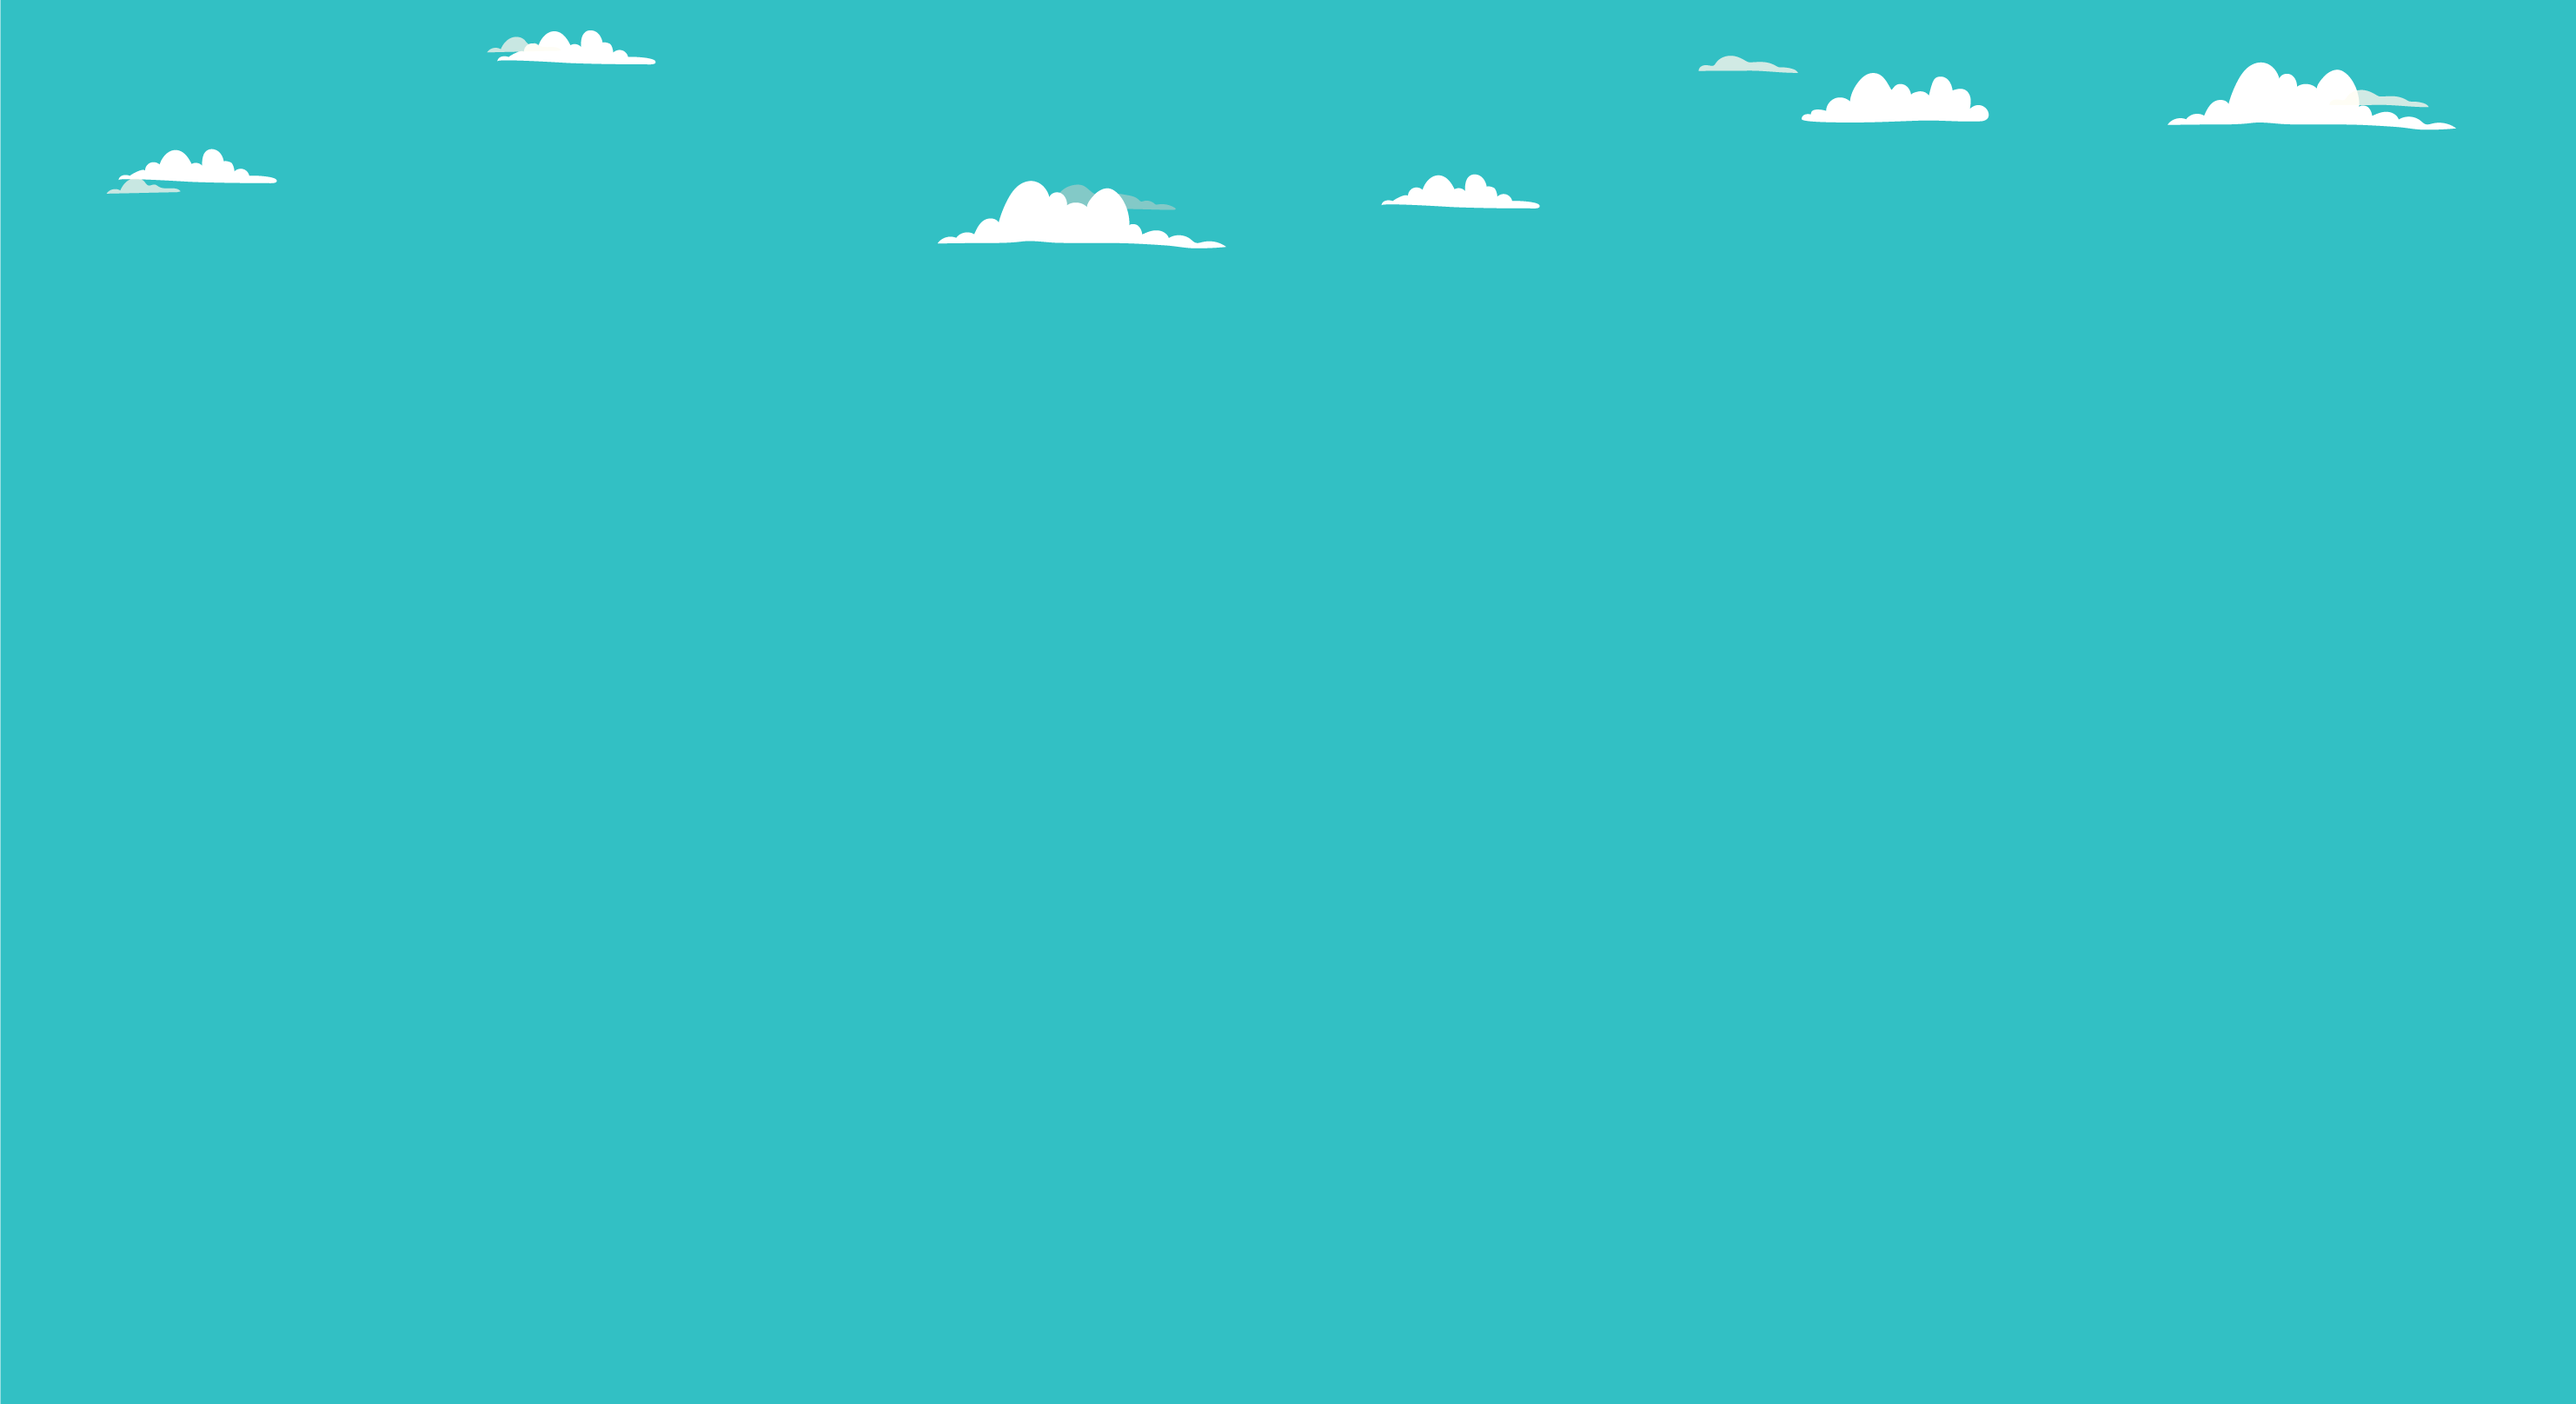
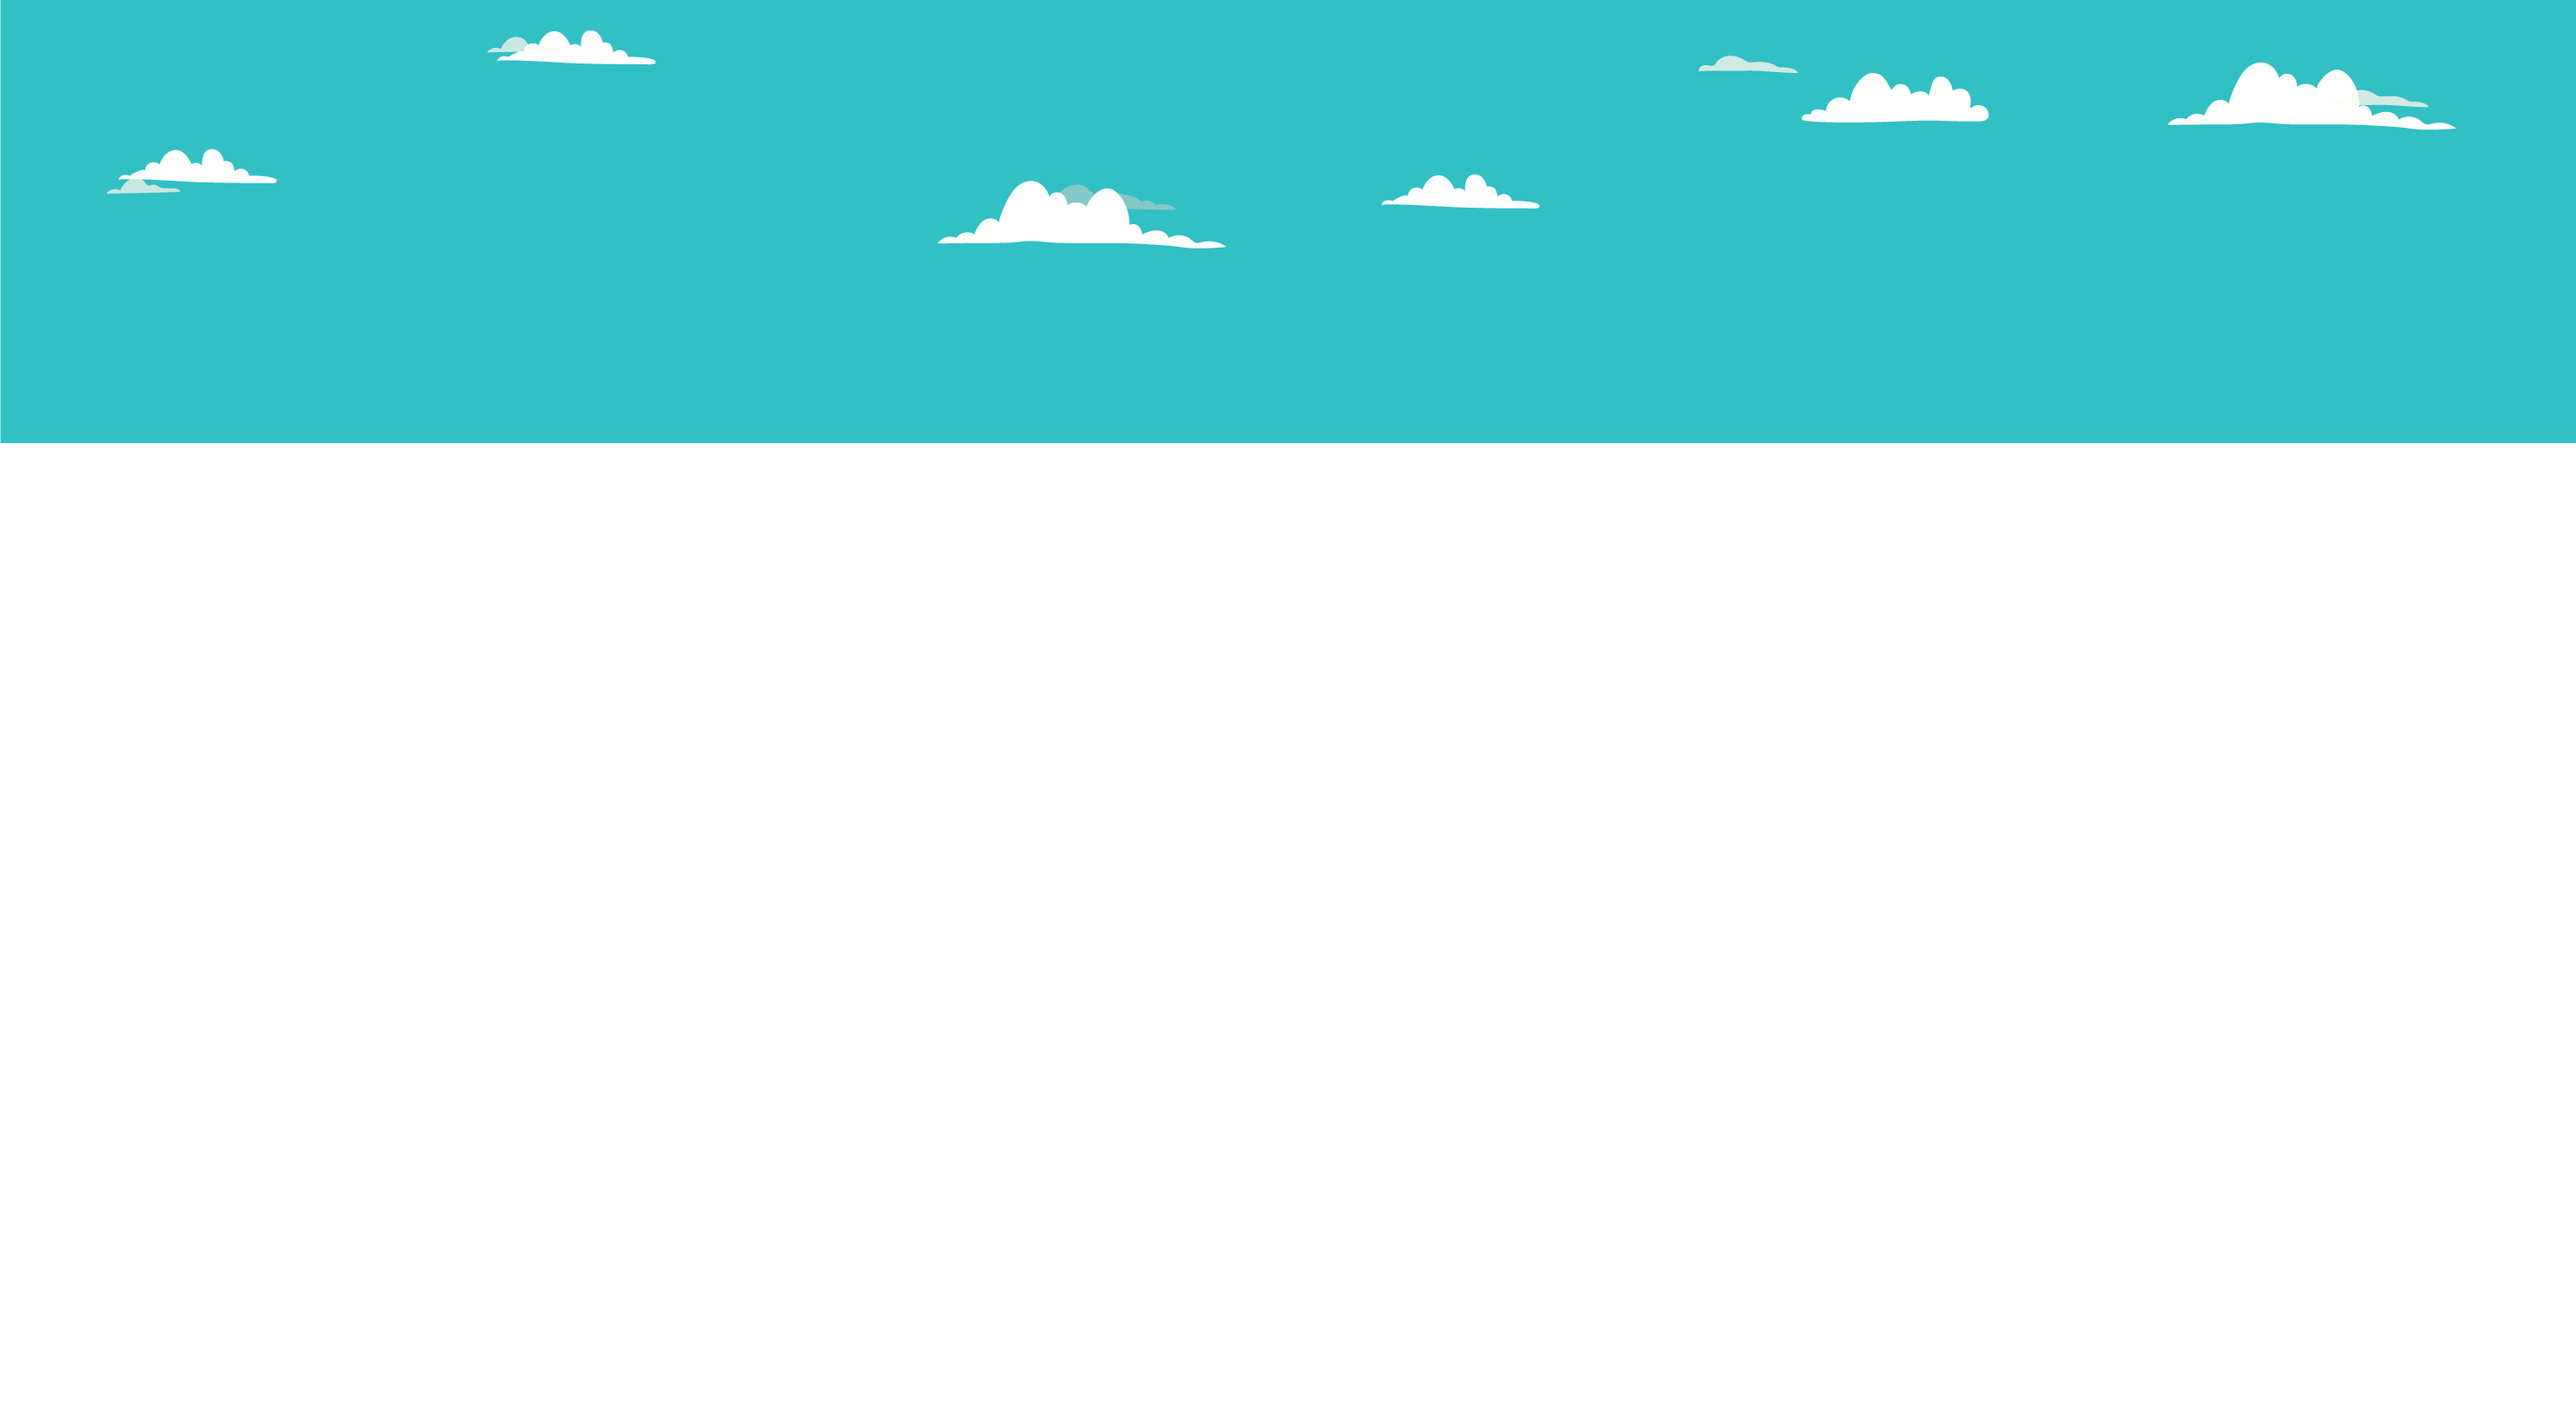
Buttons are now working + a lot of small fixes

diff --git a/index.html b/index.html
@@ -3,17 +3,20 @@
     <head>
         <meta charset="utf-8">
         <link rel="stylesheet" href="assets/stylesheets/main.css">
-        <title> SE02_Projekt </title>
+        <link rel="icon" href="assets/icons/LogoIcon.png">
+        <title> Aservio </title>
         <script src="scripts/parallax.js"></script>
     </head>
     <body>
+        <script src="https://cdn.jsdelivr.net/npm/marked/marked.min.js"></script>
+
         <header class="wrapper" id="navigation">
-            <a href="pages/changelog.html" class="button-nav">Changelog</a>
-            <a href="pages/about.html" class="button-nav">About</a>
-            <a href="pages/download.html" class="button-nav">Downloads</a>
-            <p class="box-image" style="margin-left: 10%;">LOGO</p>
+            <a href="#about-center" class="button-nav">About</a>
+            <a href="#changelog-center" class="button-nav">Changelog</a>
+            <a href="#downloads-center" class="button-nav">Downloads</a>
+            <a href="#parallax-container" class="button-nav" style="float:left;">Top</a>
         </header>
-        
+
         <div id="parallax-container">
             <div style="background-image: url(assets/images/parallax/layer01.png)"></div>
             <div style="background-image: url(assets/images/parallax/layer02.png)"></div>
@@ -22,48 +25,29 @@
             <div style="background-image: url(assets/images/parallax/layer05.png)"></div>
             <div style="background-image: url(assets/images/parallax/layer06.png)"></div>
         </div>
-        
-        <!--<section class="wrapper">
-        <!-- Titel og parallax scrolling baggrund. -->
-        <!--<div class="parallax" style="margin-top: -125px; height: 1000px; background-image: url(assets/images/ws_Spring_Plants_1920x1080.jpg);">
-            <div class="box-center" style="top: 40%;">
-                <p id="introduction">- Asservio -</p>
-                <p id="undertext">For those in need</p>
-            </div>
-        </div>-->
-        <!--
-        <section class="wrapper" id="content_01" style="float:left;">
-            <div class="three-article">
-                <img src="assets/icons/computer.png" alt="Computer icon" class="box-image">
-                <h3 class="box-text">Beskrivelse af én funktion. Der kan ske samtlige spændende
-                    ting her inde i en sådan beskrivelse.</h3>
-            </div>
-            <div class="three-article">
-                <img src="assets/icons/graph.png" alt="Graph icon" class="box-image">
-                <h3 class="box-text">Beskrivelse af én funktion. Der kan ske samtlige spændende
-                    ting her inde i en sådan beskrivelse.</h3>
-            </div>
-            <div class="three-article">
-                <img src="assets/icons/delivery.png" alt="Delivery icon" class="box-image">
-                <h3 class="box-text">Beskrivelse af én funktion. Der kan ske samtlige spændende
-                    ting her inde i en sådan beskrivelse.</h3>
-            </div>
-        </section>
-        <div class="clearfix"></div>
-        <div class="parallax" style="height: 300px; background-image: url(assets/images/ws_Spring_Plants_1920x1080.jpg)"></div>
-        <section class="wrapper" id="content_02" style="float: left;">
-            <div class="two-article">
-                <img src="assets/icons/stadistics.png" alt="Statistics icon" class="box-image" style="width: 250px; height: 250px; margin-bottom: 0;">
-            </div>
-            <div class="two-article" style="margin-left: 0px;">
-                <h3 class="box-text">Beskrivelse af én funktion. Der kan ske samtlige spændende
-                    ting her inde i en sådan beskrivelse.</h3>
-            </div>
-        </section>
-        <div class="clearfix"></div>
-        <div class="parallax" style="margin-bottom: -75px; background-image: url(assets/images/ws_Spring_Plants_1920x1080.jpg)"></div>
-    </section>-->
+
+        <div class="box-center" id="introduction" style="border: 6px dotted rgba(204, 51, 51, 0.8); margin-top: -500px; height: 300px;"></div>
+        <script>
+            document.getElementById('introduction').innerHTML =
+                    marked("## This is in markdown");
+        </script>
+
+        <div class="box-center" id="downloads" style="border: 6px dotted rgba(204, 51, 51, 0.8); margin-top: 400px; height: 300px;">
+            <p>Downloads</p>
+            <div id="downloads-center" style="margin-top: -400px;"></div>
+        </div>
+
+        <div class="box-center" id="changelog" style="border: 6px dotted rgba(204, 51, 51, 0.8); margin-top: 400px; height: 300px;">
+            <p>Changelog</p>
+            <div id="changelog-center" style="margin-top: -400px;"></div>
+        </div>
+
+        <div class="box-center" id="about" style="border: 6px dotted rgba(204, 51, 51, 0.8); margin-top: 400px; height: 300px;">
+            <p>About</p>
+            <div id="about-center" style="margin-top: -400px;"></div>
+        </div>
+
         <footer id="foot">
-            <p class="box-center" style="padding-top: 15px;">&copy;SE02 SDU, Odense Serviox</p>
+            <p class="box-center" style="padding-top: 15px;">&copy;SE02 SDU, Odense Aservio</p>
         </footer>
 </html>

diff --git a/assets/stylesheets/main.css b/assets/stylesheets/main.css
@@ -1,7 +1,7 @@
 /* Hard reset to allow for more 
     compatiblity across platforms.
 */
-
+/*
 html, body, div, span, applet, object, iframe,
 h1, h2, h3, h4, h5, h6, p, blockquote, pre,
 a, abbr, acronym, address, big, cite, code,
@@ -24,10 +24,14 @@ time, mark, audio, video {
 }
 
 /* HTML5 display-role reset for older browsers */
+/*
 article, aside, details, figcaption, figure, 
 footer, header, hgroup, menu, nav, section {
     display: block;
 }
+
+
+
 
 body {
     line-height: 1;
@@ -51,12 +55,18 @@ table {
     border-collapse: collapse;
     border-spacing: 0;
 }
-
+*/
 /*----------CSS-------------*/
+
+html {
+    scroll-behavior: smooth;
+}
 
 body {
     font-family: "Verdana";
     font-size: 18px;
+    color: white;
+    background-color: #006666;
 }
 
 .wrapper {
@@ -98,28 +108,11 @@ body {
 
 .box-center {
     position: relative;
-    width:20%;
+    width:60%;
     display: block;
     margin-left: auto;
     margin-right: auto;
-    text-align: center;
-}
-
-.parallax {
-    background-repeat: no-repeat;
-    position: relative;
-
-    /* Set a specific height */
-    height: 500px; 
-
-    /* Create the parallax scrolling effect */
-    background-attachment: fixed;
-    background-position: center;
-    background-repeat: no-repeat;
-}
-
-.clearfix {
-    clear: both;
+    text-align: left;
 }
 
 .button-nav {
@@ -139,7 +132,7 @@ body {
 .button-nav:hover {
     background-color: rgba(255, 255, 255, 0.3);
     color: darkslategray;
-    border: 2px solid #cc4700;
+    border: 2px solid #cc3333;
 }
 
 #parallax-container {
@@ -166,54 +159,24 @@ body {
 }
 
 #navigation {
-    /*position: fixed;
-    top: 0;*/
+    position: fixed;
+    top: 0;
     height: 125px;
     z-index: 1;
 }
 
 #introduction {
-    position:relative;
-    background-color: rgba(255, 255, 255, 0.8);
-    color: #cc4700;
-    font-size: 28px;
-    font-weight: bold;
-    border-radius: 5px;
-    padding: 10px;
+    
 }
 
-#undertext {
-    position: relative;
-    width:fit-content;
-    display: block;
-    margin-left: auto;
-    margin-right: auto;
-
-    color: white;
-    top: 20px;
-}
-
-#content_01 {
-    margin: 0%;
-    margin-top: -250px;
-    background: linear-gradient(to right, #71c4be 0%,#0d9196 50%,#71c4be 100%);
-
-}
-
-#content_02 {
-    margin: 0%;
-    background: -webkit-linear-gradient(left, rgba(226,180,142,1) 0%,rgba(229,138,59,1) 50%,rgba(226,180,142,1) 100%);
-}
-
-#content_03 {
-    margin: 0%;
-    background-color: aquamarine;
+#downloads {
+    
 }
 
 #foot {
     position: relative;
     height: 75px;
-    background: linear-gradient(to top, rgba(255,255,255,0.65) 50%,rgba(0,0,0,0) 100%);
-    color: #cc4700;
+    color: white;
+    font-weight: bold;
 }
 

diff --git a/scripts/parallax.js b/scripts/parallax.js
@@ -2,6 +2,10 @@ window.addEventListener('scroll', () => {
     let parent = document.getElementById('parallax-container');
     let children = parent.getElementsByTagName('div');
     for (let i = 0; i < children.length; i++) {
-        children[i].style.transform = 'translateY(-' + (window.pageYOffset * i / children.length) + 'px)';
+        if (window.pageYOffset < 1300) {
+            children[i].style.transform = 'translateY(-' + (window.pageYOffset * i / children.length) + 'px)';
+        } else {
+            children[i].style.transform = 'translateY(-1300px)';
+        }
     }
 }, false);

diff --git a/scripts/mdConverter.js b/scripts/mdConverter.js
@@ -1,0 +1,11 @@
+console.log("mdConverter.js initialized");
+var showdown = require('marked');
+let parent = document.getElementById('introduction');
+
+var text = "- Hello there",
+      target = document.getElementById('introduction'),
+      converter = new showdown.Converter(),
+      html = converter.makeHtml(text);
+    
+    target.innerHTML = html;
+

diff --git a/server.js b/server.js
@@ -1,0 +1,7 @@
+var express = require('express');
+var app = express();
+
+app.use(express.static(__dirname));
+
+app.listen('3000');
+console.log('working on 3000');
